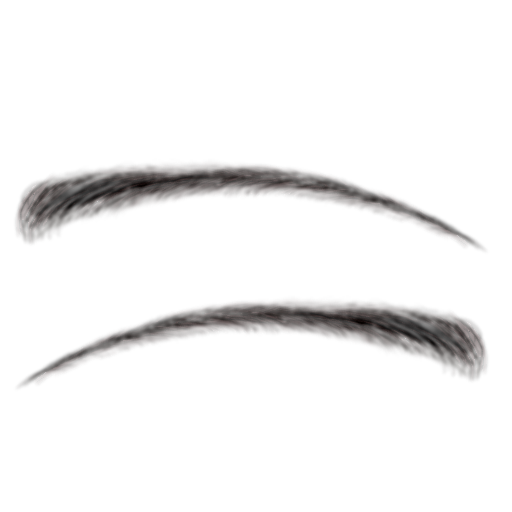
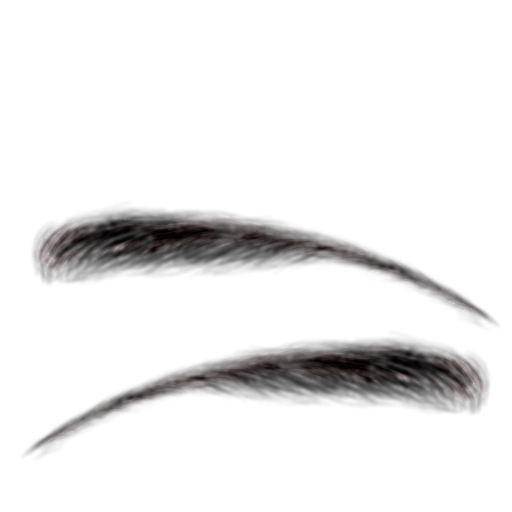
3D 상의 밝기를 상품 사진 몸판 가운데 밝기에 맞추기, 세로 실 결 헤더 잔결, 눈썹을 숱 많은 eyebrow008로 교체, 서비스 워커 v60

Changed region(s): [[0.0312, 0.3125, 0.9688, 0.9062]]

diff --git a/avatar3d.js b/avatar3d.js
@@ -562,7 +562,7 @@ float armParam(vec3 p) {
     return knitT;
   }
 
-  // 헤더(섞인 실) 잔결: 가로로 조금 긴 밝기 얼룩(한 번만 만든다), 민무늬 상의 천의 사진 대신
+  // 헤더(섞인 실) 잔결: 세로로 조금 긴 밝기 얼룩(한 번만 만든다), 민무늬 상의 천의 사진 대신
   let heatherT = null;
   function heatherTex() {
     if (heatherT) return heatherT;
@@ -570,7 +570,7 @@ float armParam(vec3 p) {
     const g = c.getContext('2d'), im = g.createImageData(N, N);
     const v0 = new Float32Array(N * N); for (let i = 0; i < v0.length; i++) v0[i] = Math.random();
     for (let y = 0; y < N; y++) for (let x = 0; x < N; x++) {
-      let s = 0; for (let dx = -2; dx <= 2; dx++) s += v0[y * N + ((x + dx + N) % N)]; // 가로로 5칸 평균(실 방향)
+      let s = 0; for (let dy = -2; dy <= 2; dy++) s += v0[((y + dy + N) % N) * N + x]; // 세로로 5칸 평균(세로 실 결, 약 2~3mm)
       const v = Math.max(0, Math.min(255, 128 + (s / 5 - 0.5) * 2.2 * 255 * 0.5));
       const i = (y * N + x) * 4; im.data[i] = im.data[i + 1] = im.data[i + 2] = v; im.data[i + 3] = 255;
     }
@@ -751,13 +751,13 @@ float armParam(vec3 p) {
         // 안쪽 면(밑단·소매 안으로 보이는 곳)은 어둡게
         .replace('#include <map_fragment>', '#include <map_fragment>\n'
           // 상품 무늬: 그림의 민무늬 자리는 중앙값 색 그대로라 (무늬색 - 중앙값)만 더한다(색감 그대로, 무늬 없는 곳은 이전과 같은 색).
-          // 옆·뒤는 둘러 그린 줄무늬(vPW2), 앞은 사진 무늬(vPW). 상의는 사진 대신 잔결(헤더) 밝기 변화 ±3%
+          // 옆·뒤는 둘러 그린 줄무늬(vPW2), 앞은 사진 무늬(vPW). 상의는 사진 대신 잔결(헤더, 세로 실 결) 밝기 변화 ±4.5%
           + (pr ? `if (gl_FrontFacing) {
             vec3 tw = mix(uPMed, texture2D(uWrap, vPUV2).rgb, clamp(vPW2, 0.0, 1.0));
             vec3 tp = mix(tw, texture2D(uPrint, vPUV).rgb, clamp(vPW, 0.0, 1.0));
             vec3 pc = max(diffuse + (tp - uPMed) * ${kind === 'bottom' ? '1.25' : '1.0'}, vec3(0.0));
             diffuseColor.rgb *= pc / max(diffuse, vec3(0.0001));
-            ${kind === 'top' ? 'diffuseColor.rgb *= 1.0 + 0.06 * (texture2D(uHeather, vMapUv * vec2(9.0, 13.0)).r - 0.5);' : ''}
+            ${kind === 'top' ? 'diffuseColor.rgb *= 1.0 + 0.09 * (texture2D(uHeather, vMapUv * 4.0).r - 0.5);' : ''}
           }\n` : '')
           + 'if (!gl_FrontFacing) diffuseColor.rgb *= ' + (kind === 'top' ? '0.7' : '0.8') + ';' // 바지는 앞 지퍼 쪽 겹친 천 사이로 안쪽이 보여 덜 어둡게
           + '\ndiffuseColor.rgb *= mix(0.82, 1.0, smoothstep(1.2, 1.5, edgeD));'); // 밑단·소매 끝 접어 박은 단(1.2~1.5cm, 18% 어둡게)
@@ -968,8 +968,27 @@ float armParam(vec3 p) {
       for (let i = 0; i < N; i++) if (sm2[i] && gar[i]) { a++; if (pm[i]) p++; }
       sleevePrint = a > 50 && p / a > 0.03;
     }
+    // 몸판 가운데(무늬 아닌 바탕 천)의 사진 밝기(중앙값): 3D 결과 밝기를 상품 사진에 맞출 때 쓴다
+    let centerL = null;
+    if (rb.torso?.length > 4) {
+      const rows = fixRows(rb.torso), K = tex.kind === 'model' ? 5 : 0, rr = rows.slice(K);
+      const Ls = [];
+      const lumAt = (i) => lumOf(d[i * 4], d[i * 4 + 1], d[i * 4 + 2]);
+      for (let q = Math.floor(rr.length * 0.3); q <= Math.ceil(rr.length * 0.65) && q < rr.length; q++) {
+        const [pa, pb2] = rr[q].map(P2), y = Math.round((pa[1] + pb2[1]) / 2);
+        if (y < 1 || y >= ch - 1) continue;
+        for (let x = Math.round(pa[0] + (pb2[0] - pa[0]) * 0.3); x <= pa[0] + (pb2[0] - pa[0]) * 0.7; x++) {
+          for (let dy = -3; dy <= 3; dy++) {
+            const yy = y + dy, i = yy * cw + x;
+            if (x < 1 || x >= cw - 1 || yy < 1 || yy >= ch - 1 || !gar[i] || pm[i]) continue;
+            Ls.push(lumAt(i));
+          }
+        }
+      }
+      if (Ls.length > 50) { Ls.sort((p, q) => p - q); centerL = Ls[Ls.length >> 1]; }
+    }
     const res = {
-      medHex, cw, ch, out, wrapOut, blobs, hasWrap: nFull >= ch * 0.03, sleevePrint, maps: new Map(), med3: med,
+      centerL, medHex, cw, ch, out, wrapOut, blobs, hasWrap: nFull >= ch * 0.03, sleevePrint, maps: new Map(), med3: med,
       med: new THREE.Color(...med.map((v) => v / 255)).convertSRGBToLinear(),
       toUV: (p) => [(p.x - x0) / bw, 1 - (p.y - y0) / bh],
     };
@@ -1234,6 +1253,7 @@ float armParam(vec3 p) {
     const neckY = jpos(cmP, 'neck01____head')[1];
     const TAU = Math.PI * 2;
     U.uTopOn.value = 0; U.uBotOn.value = 0;
+    let topMat = null, topTarget = null, topPrint = null; // 상의 밝기 맞추기(상품 사진이 있을 때)
     if (outfit.top?.g) {
       const g = outfit.top.g;
       const it = C.items[g.sleeve != null && g.sleeve > 40 ? 'longtee' : 'tee'];
@@ -1268,6 +1288,7 @@ float armParam(vec3 p) {
         }, cmP);
       }
       const mat = clothMaterial('top', { color: outfit.top.color, map: C.tex[it.name + '_ao.jpg'], bump: knitTex(), print: pt }, U);
+      if (pb?.centerL) { topMat = mat; topTarget = pb.centerL; topPrint = { ...pt, med3: pb.med3 }; }
       U.uZc.value = zcT;
       const mesh = clothMesh(it, P, cmP, ease, mat, U.uHem.value, radialT, zcT, printFn);
       U.uHemM.value = mesh.userData.ext.yMin; U.uSleeveM.value = mesh.userData.ext.sMax;
@@ -1331,7 +1352,30 @@ float armParam(vec3 p) {
     renderer.setPixelRatio(1); renderer.setSize(CW * SS, CH * SS, false);
     scene.environment = studioEnv; scene.environmentIntensity = LIGHT.env;
     renderer.toneMapping = THREE.ACESFilmicToneMapping; renderer.toneMappingExposure = LIGHT.exposure;
-    const full = X.shot();
+    // 밝기를 잴 때는 무늬를 빼고(가슴 로고가 재는 상자의 절반을 덮을 수 있다) 바탕 천 색만으로 한 번 그린다
+    let full;
+    if (topMat && topTarget && topPrint) {
+      const plain = new THREE.DataTexture(new Uint8Array([...topPrint.med3, 255]), 1, 1); plain.colorSpace = THREE.SRGBColorSpace; plain.needsUpdate = true;
+      const keep = [topPrint.mapU.value, topPrint.wrapU.value];
+      topPrint.mapU.value = topPrint.wrapU.value = plain;
+      full = X.shot();
+      [topPrint.mapU.value, topPrint.wrapU.value] = keep;
+      plain.dispose();
+    } else full = X.shot();
+    // 상의 밝기 맞추기: 3D 조명 아래 몸판 가운데 밝기(중앙값)가 상품 사진 몸판 가운데(무늬 아닌 바탕 천) 밝기와 같아지게
+    // 색에 한 번 배율을 곱해 다시 그린다(3D 조명이 사진보다 가슴을 15% 안팎 어둡게 그린다)
+    if (topMat && topTarget) {
+      const sp = jpos(P, 'spine03____head'), y0 = Math.round(FLOOR - (sp[1] - 2) * X.s), y1 = Math.round(FLOOR - (sp[1] - 20) * X.s);
+      const x0 = Math.round(CW / 2 - 7 * X.s), x1 = Math.round(CW / 2 + 7 * X.s);
+      const dd = full.getContext('2d').getImageData(x0, y0, x1 - x0, y1 - y0).data, Ls = [];
+      for (let i = 0; i < dd.length; i += 4) if (dd[i + 3] > 200) Ls.push(lumOf(dd[i], dd[i + 1], dd[i + 2]));
+      if (Ls.length > 50) {
+        Ls.sort((p, q) => p - q);
+        const lin = (v) => Math.pow(Math.max(1, v) / 255, 2.2), gain = Math.min(topTarget < 60 ? 1.12 : 1.6, Math.max(0.8, lin(topTarget) / lin(Ls[Ls.length >> 1]))); // 검은 옷은 조금만(많이 밝히면 따뜻한 조명에 갈색으로 뜬다)
+        if (Math.abs(gain - 1) > 0.03) topMat.color.multiplyScalar(gain);
+        if (Math.abs(gain - 1) > 0.03 || topPrint) full = X.shot();
+      } else if (topPrint) full = X.shot();
+    }
     meshes.forEach((o) => { scene.remove(o); o.geometry.dispose(); o.material.dispose(); });
     U.uTopOn.value = 0; U.uBotOn.value = 0; ca.fill(0); cov.needsUpdate = true;
     if (X.facePaste && X.face?.img) full.getContext('2d').drawImage(X.face.img, X.facePaste.x, X.facePaste.y, X.face.img.width * X.facePaste.k, X.face.img.height * X.facePaste.k);

diff --git a/sw.js b/sw.js
@@ -1,6 +1,6 @@
 // 앱 파일을 캐시해 오프라인에서도 열리게 한다.
 // 파일을 수정했으면 CACHE 버전을 올려야 사용자 기기에 새 버전이 반영된다.
-const CACHE = 'fitcheck-v59';
+const CACHE = 'fitcheck-v60';
 const ASSETS = [
   './',
   'index.html',

diff --git a/tools/build_human.py b/tools/build_human.py
@@ -205,7 +205,7 @@ def add_proxy(name, tex, objname=None, kind='hair'):
 
 add_proxy('short02', 'hair.png', kind='hair')
 for _h in HAIR_ALT: add_proxy(_h, 'hair_%s.png' % _h, kind='hair')
-BROW = os.environ.get('BROW', 'eyebrow001')  # 다른 눈썹(eyebrow002 등)을 시험할 때 BROW=이름
+BROW = os.environ.get('BROW', 'eyebrow008')  # 숱 많고 덜 휜 남성 눈썹(eyebrow001은 가늘고 안쪽이 내려가 찡그린 듯 보였다). 다른 눈썹 시험: BROW=이름
 add_proxy(BROW, 'eyebrow.png', kind='brow')
 add_proxy('eyelashes01', 'lashes.png', kind='lash')
 add_proxy('eyes', 'eye.png', kind='eye')
